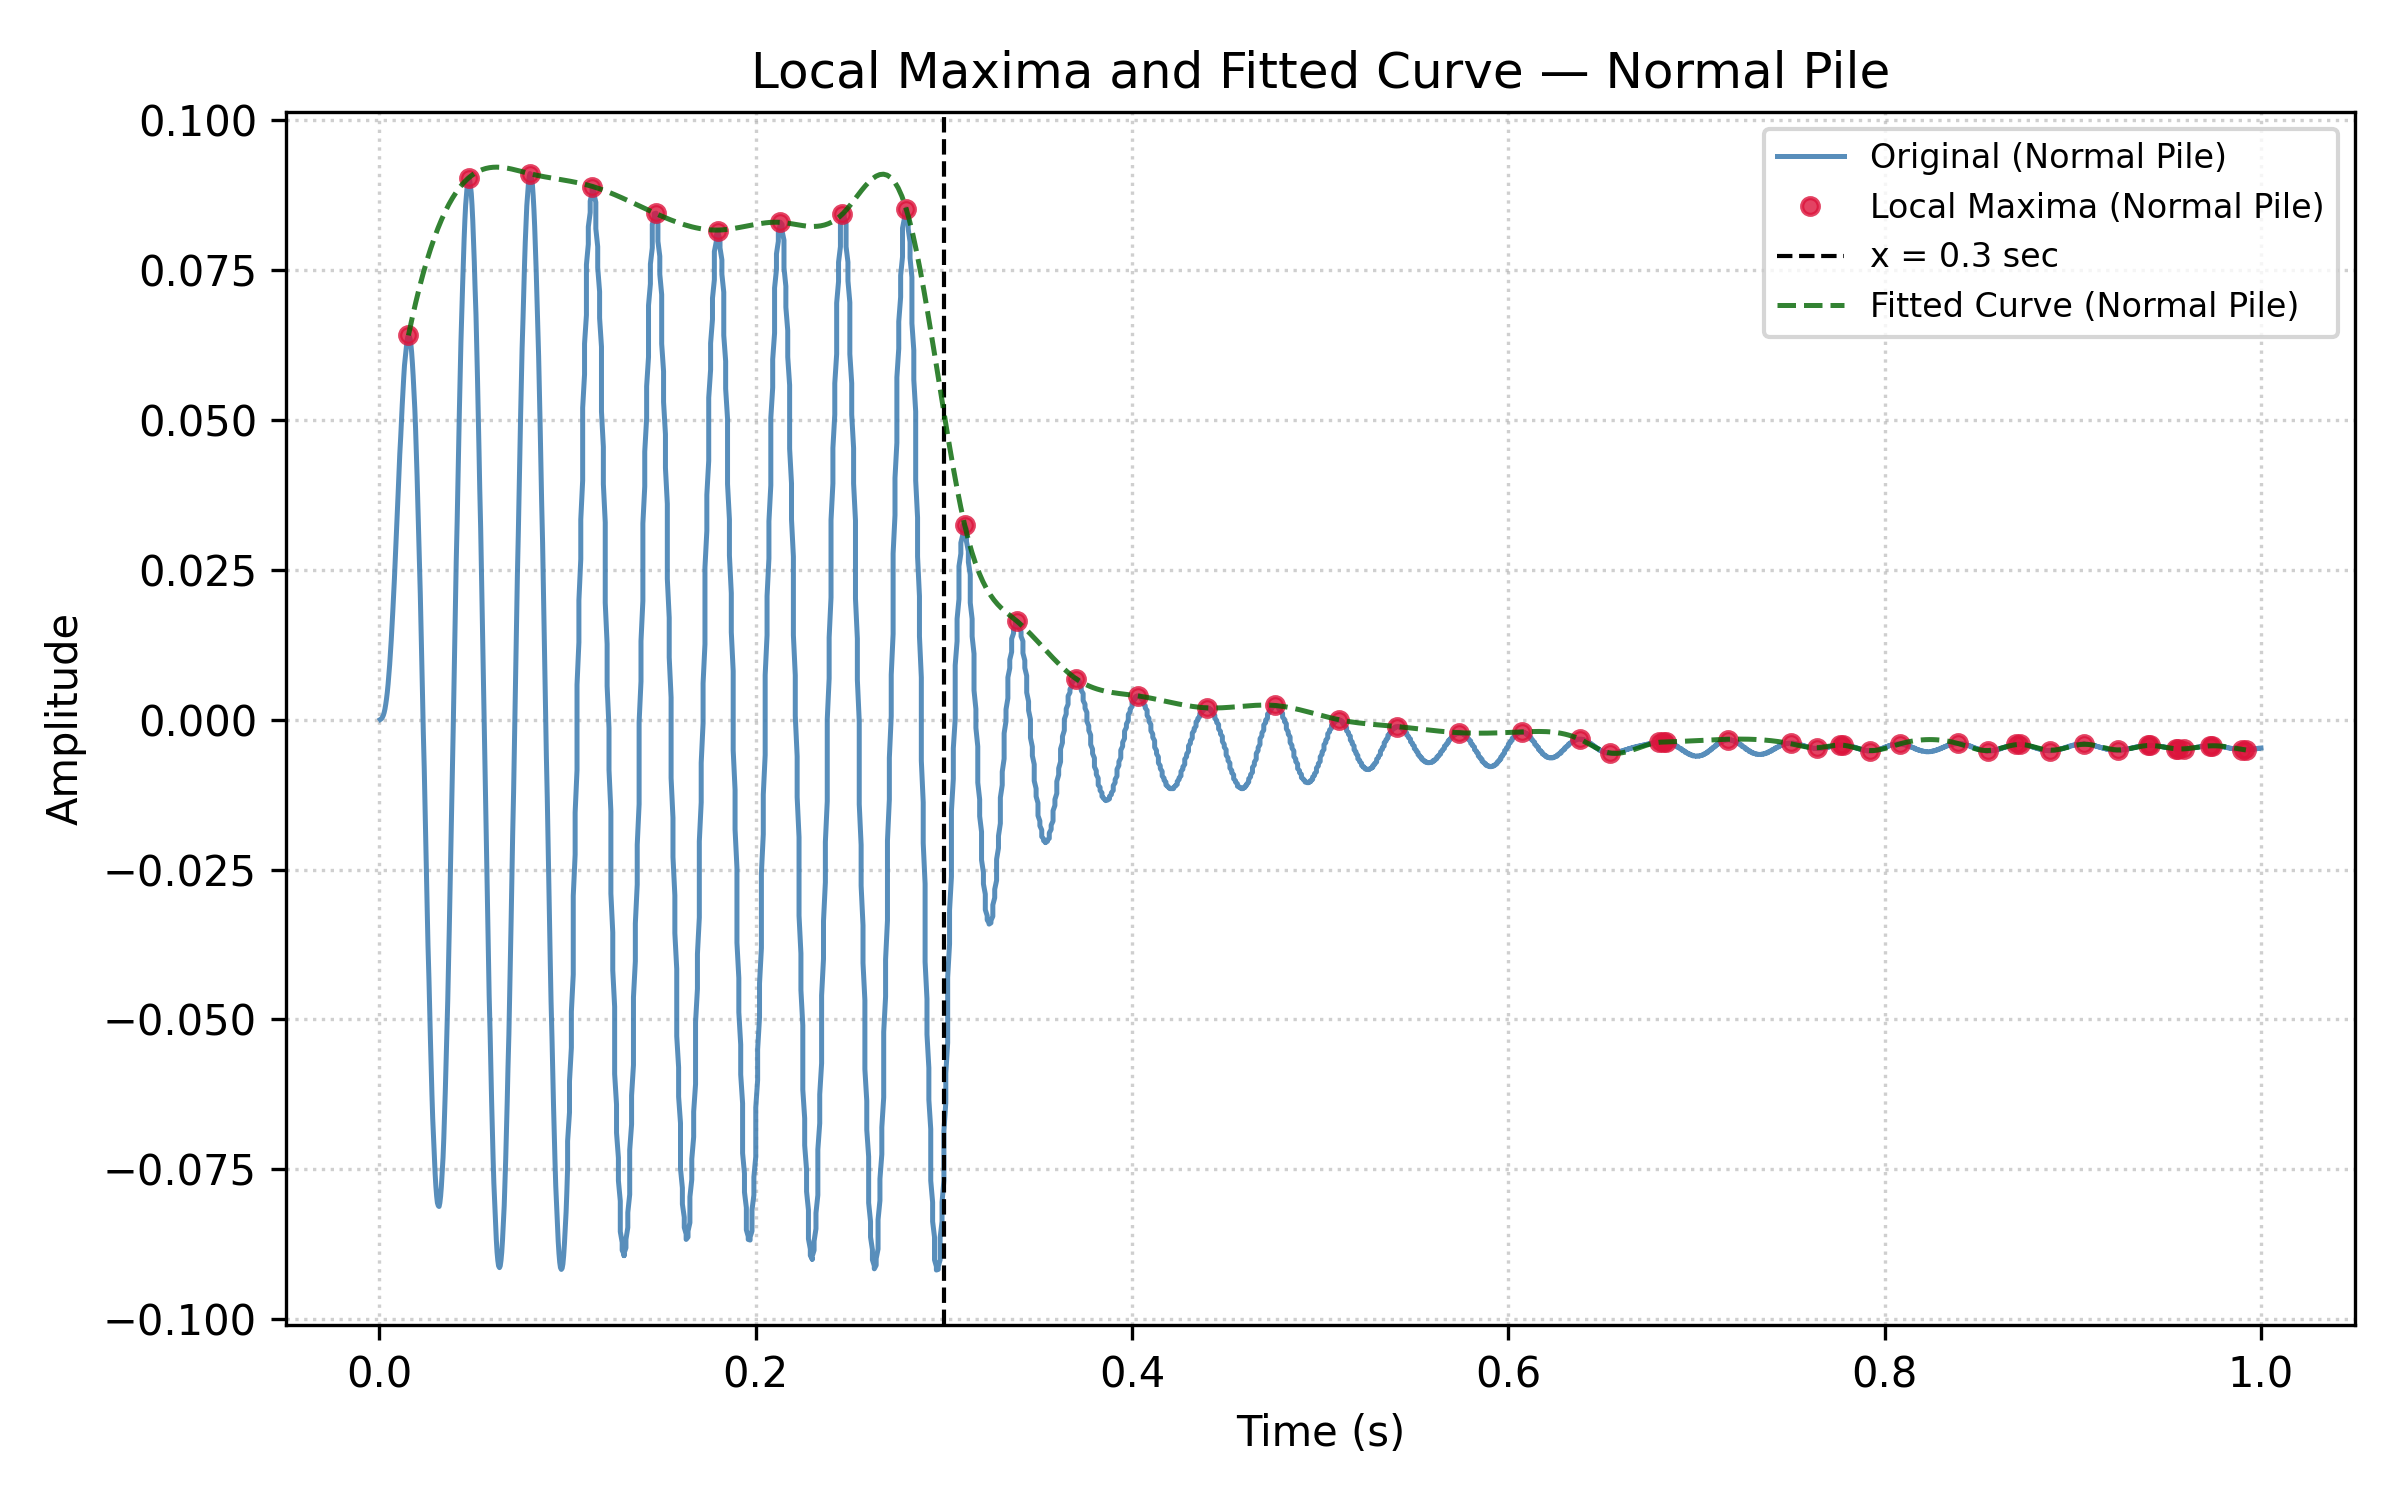
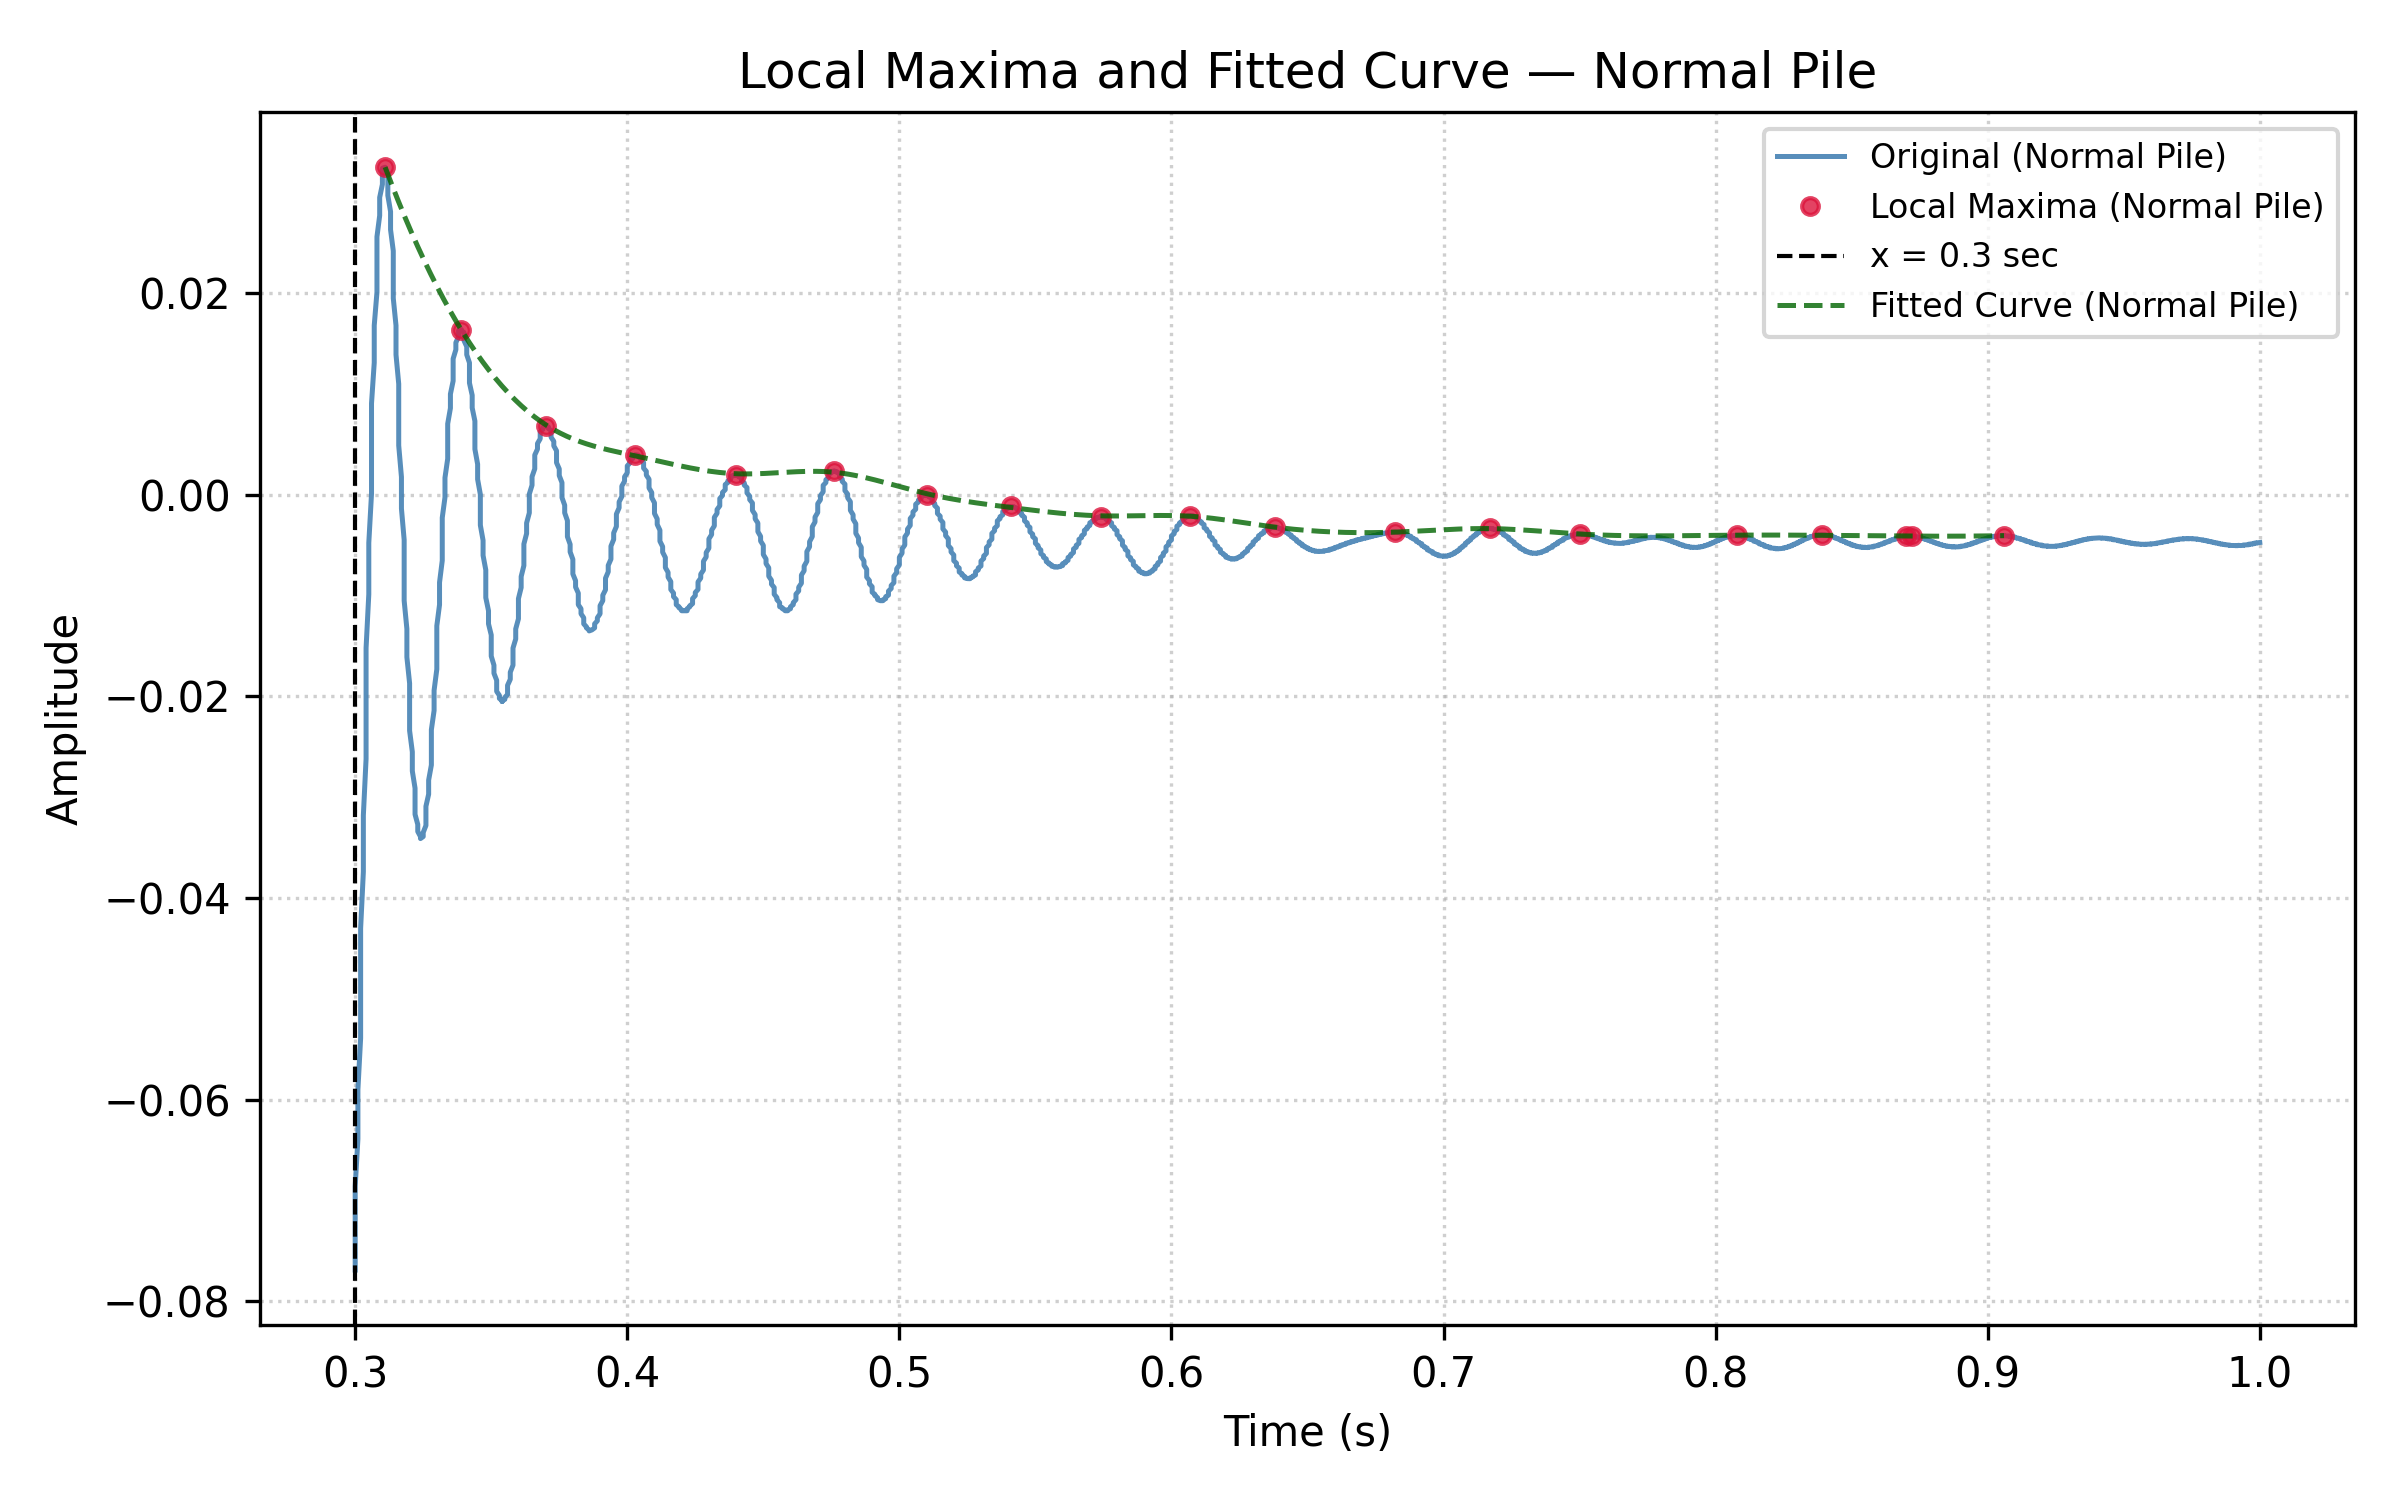
updated

diff --git a/scripts/run_analysis.py b/scripts/run_analysis.py
@@ -13,15 +13,18 @@ files = {
 }
 
 def main():
-    label = "Under-reamed Pile"
-    filename = "reamed_pile.png"
-    path = files[label]
+    label = ["Normal Pile", "Under-reamed Pile"]
+    filename = ["normal_pile", "reamed_pile.png"]
+    i = 0
+    path = files[label[i]]
 
     df = load_csv(path)
-    x_max, y_max = find_local_maxima(df, x_min=0.003)  # Adjust as needed
+    x_max, y_max = find_local_maxima(df, x_min=0.3)  # Adjust as needed
 
     fit_func = fit_spline(x_max, y_max, smooth_factor=1e-7)
-    plot_maxima_and_fit(df, x_max, y_max, fit_func=fit_func, label=label, filename=filename)
+
+    df = df[df['time'] >= 0.3].reset_index(drop=True)
+    plot_maxima_and_fit(df, x_max, y_max, fit_func=fit_func, label=label[i], filename=filename[i])
 
 if __name__ == '__main__':
     main()

diff --git a/peakfit/analyzer.py b/peakfit/analyzer.py
@@ -5,10 +5,15 @@
 from scipy.signal import find_peaks
 import numpy as np
 
-def find_local_maxima(df, x_min=0.3):
-    filtered = df[df['time'] > x_min]
-    peaks, _ = find_peaks(filtered['amplitude'])
-    peak_x = filtered.iloc[peaks]['time'].values
-    peak_y = filtered.iloc[peaks]['amplitude'].values
-    return peak_x, peak_y
 
+from scipy.signal import find_peaks
+
+def find_local_maxima(df, x_min=0.3, prominence=0.001):
+    filtered_df = df[df['time'] >= x_min].reset_index(drop=True)
+    y = filtered_df['amplitude'].values
+
+    peaks, _ = find_peaks(y, prominence=prominence)
+    x_max = filtered_df['time'].iloc[peaks].values
+    y_max = y[peaks]
+
+    return x_max, y_max
